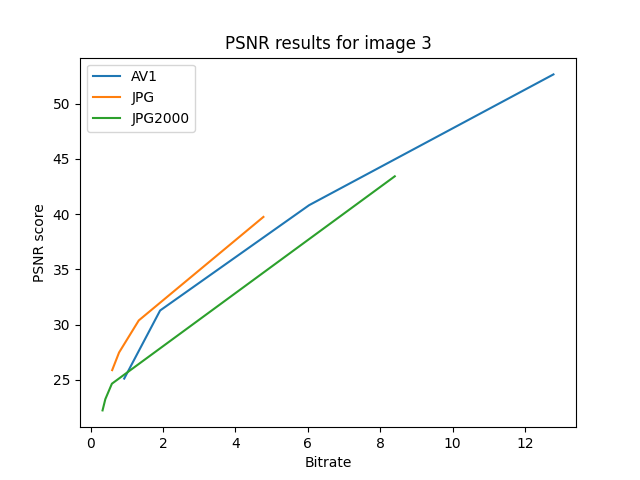
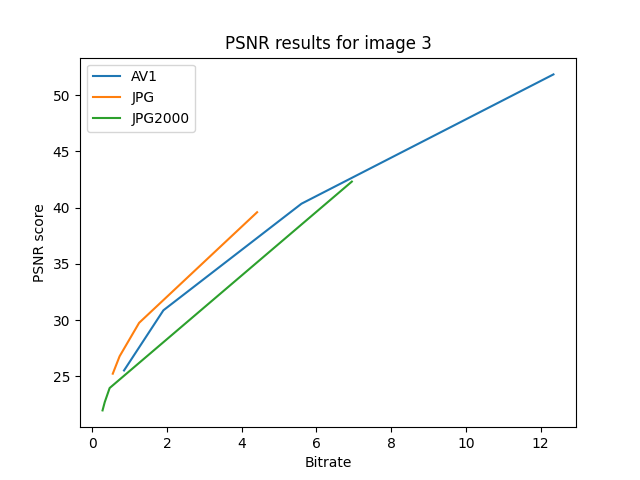
Updated graphs and results

diff --git a/generateGraphs.py b/generateGraphs.py
@@ -4,6 +4,7 @@ import numpy as np
 import os
 from tqdm import tqdm
 import cv2
+from mos import MOS 
 
 def create_dir(objective_metrics):
     if not os.path.exists('graphs'):
@@ -28,13 +29,13 @@ def get_bitrate_values(image_index):
     X_t = [[],[],[]]
     for i in range(4):
         # AV1
-        X_t[0].append(get_bpp(f'images/AV1/bitrate-{i+1}/{int(image_index[-1]) + 1}.{codec_list["AV1"]}'))
+        X_t[0].append(get_bpp(f'images/AV1/bitrate-{i+1}/{int(image_index[-1])}.{codec_list["AV1"]}'))
         
         # JPG
-        X_t[1].append(get_bpp(f'images/JPG/bitrate-{i+1}/{int(image_index[-1]) + 1}.{codec_list["JPG"]}'))
+        X_t[1].append(get_bpp(f'images/JPG/bitrate-{i+1}/{int(image_index[-1])}.{codec_list["JPG"]}'))
         
         # JPG2000
-        X_t[2].append(get_bpp(f'images/JPG2000/bitrate-{i+1}/{int(image_index[-1]) + 1}.{codec_list["JPG2000"]}'))
+        X_t[2].append(get_bpp(f'images/JPG2000/bitrate-{i+1}/{int(image_index[-1])}.{codec_list["JPG2000"]}'))
         
     return X_t
                
@@ -56,6 +57,9 @@ def create_graph(file_path, results_list, codecs):
 def create_graph_mos(file_path, results_list, codecs):
     # Reset plot
     plt.clf()
+    mos_c = MOS()
+    ci = mos_c.getConfidenceIntervals()
+    ci = ci[::-1]
 
     X = get_bitrate_values(file_path.split('/')[-1].split('.')[0])
     marker_list = ['o', 'x', '^']
@@ -69,6 +73,30 @@ def create_graph_mos(file_path, results_list, codecs):
 
     plt.legend()
     plt.savefig(file_path)
+
+# def create_graph_mos(file_path, results_list, codecs):
+#     # Reset plot
+#     plt.clf()
+#     mos_c = MOS()
+#     ci = mos_c.getConfidenceIntervals()
+#     ci = ci[::-1]
+    
+#     X = get_bitrate_values(file_path.split('/')[-1].split('.')[0])
+#     marker_list = ['o', 'x', '^']
+#     for i, codec_results in enumerate(results_list):
+#         codec_results = codec_results[:-1]
+#         yerr_lower = [codec_results[j] - ci[j][0] for j in range(len(codec_results))]
+#         yerr_upper = [ci[j][1] - codec_results[j] for j in range(len(codec_results))]
+#         plt.errorbar(X[i], codec_results, yerr=[yerr_lower, yerr_upper], 
+#                      label=codecs[i], marker=marker_list[i])
+    
+#     plt.xlabel("Bitrate")
+#     plt.ylabel(f"{file_path.split('/')[1]} score")
+#     plt.title(f"{file_path.split('/')[1]} results for image {file_path.split('/')[2].split('.')[0][-1]}")
+
+#     plt.legend()
+#     plt.savefig(file_path)
+
 
 def create_objective_graphs():
     # Get the objective evaluation metrics results
@@ -113,7 +141,7 @@ def create_mos_graphs():
 
 if __name__ == '__main__':    
     print("Generating graphs for objective evaluation")
-    create_objective_graphs()
+    # create_objective_graphs()
     print('\n__________________________________________\n')
     print("Generating graphs for subjective evaluation")
     create_mos_graphs()

diff --git a/objectiveTest.py b/objectiveTest.py
@@ -8,7 +8,7 @@ import os
 from tqdm import tqdm
 
 SCORES_DIR = {}
-CODEC_LIST = {'JPG':'jpg', 'JPG2000':'jp2', 'AV1':'mp4'} # Name followed by extension
+CODEC_LIST = {'JPG':'jpg', 'JPG2000':'jp2', 'AV1':'png'} # Name followed by extension
 BITRATE_LIST = ['bitrate-1', 'bitrate-2', 'bitrate-3', 'bitrate-4']
 
 def initialize_dict():
@@ -30,6 +30,7 @@ def psnr_evaluation():
         for i in tqdm(range(1,6), leave=False, desc=f'Images'):
             reference_img = cv2.imread(f'images/References/{i}.png')
             for bitrate in os.listdir(f'images/{codec}'):
+                print(f'images/{codec}/{bitrate}/{i}.{CODEC_LIST[codec]}')
                 SCORES_DIR['PSNR'][codec][f'Image {i}'][bitrate] = round(cv2.PSNR(reference_img, cv2.imread(f'images/{codec}/{bitrate}/{i}.{CODEC_LIST[codec]}')),3)
 
     print(SCORES_DIR['PSNR'])

diff --git a/generateCorrelation.py b/generateCorrelation.py
@@ -21,6 +21,9 @@ def get_metric_values(metric_path):
 
     return result_list
 
+def mosp_function(iqm,a,b,c,d):
+    return a * iqm**3 + b * iqm**2 + c * iqm + d
+
 if __name__ == '__main__':
     # Get the proper values of the metrics in lists
     mos_values = get_metric_values('mos_results')
@@ -28,7 +31,10 @@ if __name__ == '__main__':
     mosp_ssim_values = get_metric_values('mosp_results/SSIM')
     mosp_vifp_values = get_metric_values('mosp_results/VIFp')
 
-    
+    # Plot psnr mosp
+    plt.scatter(mosp_psnr_values, mos_values)
+    plt.show()
+
     print('Pearson:')
     psnr_pearson = pearsonr(mos_values, mosp_psnr_values)
     ssim_pearson = pearsonr(mos_values, mosp_ssim_values)
